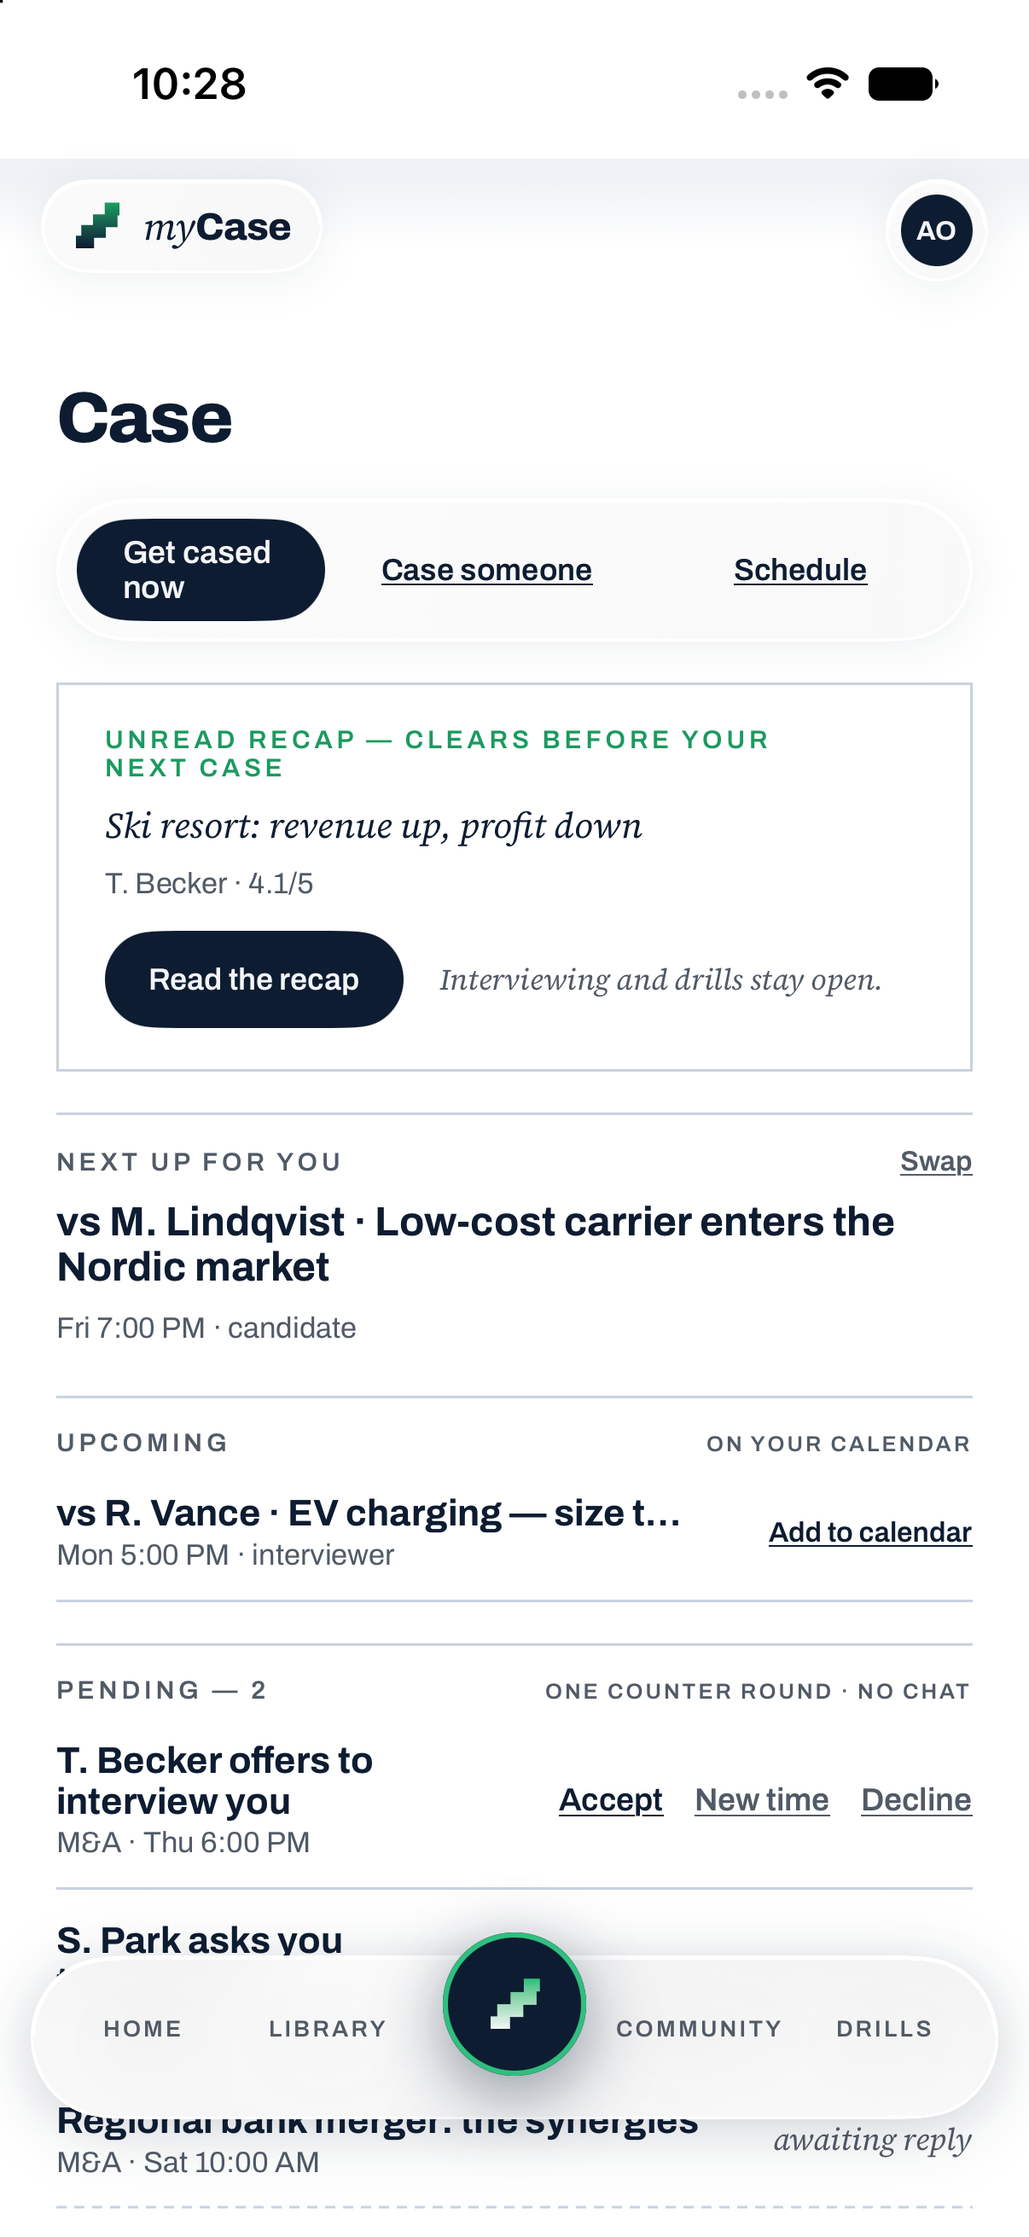
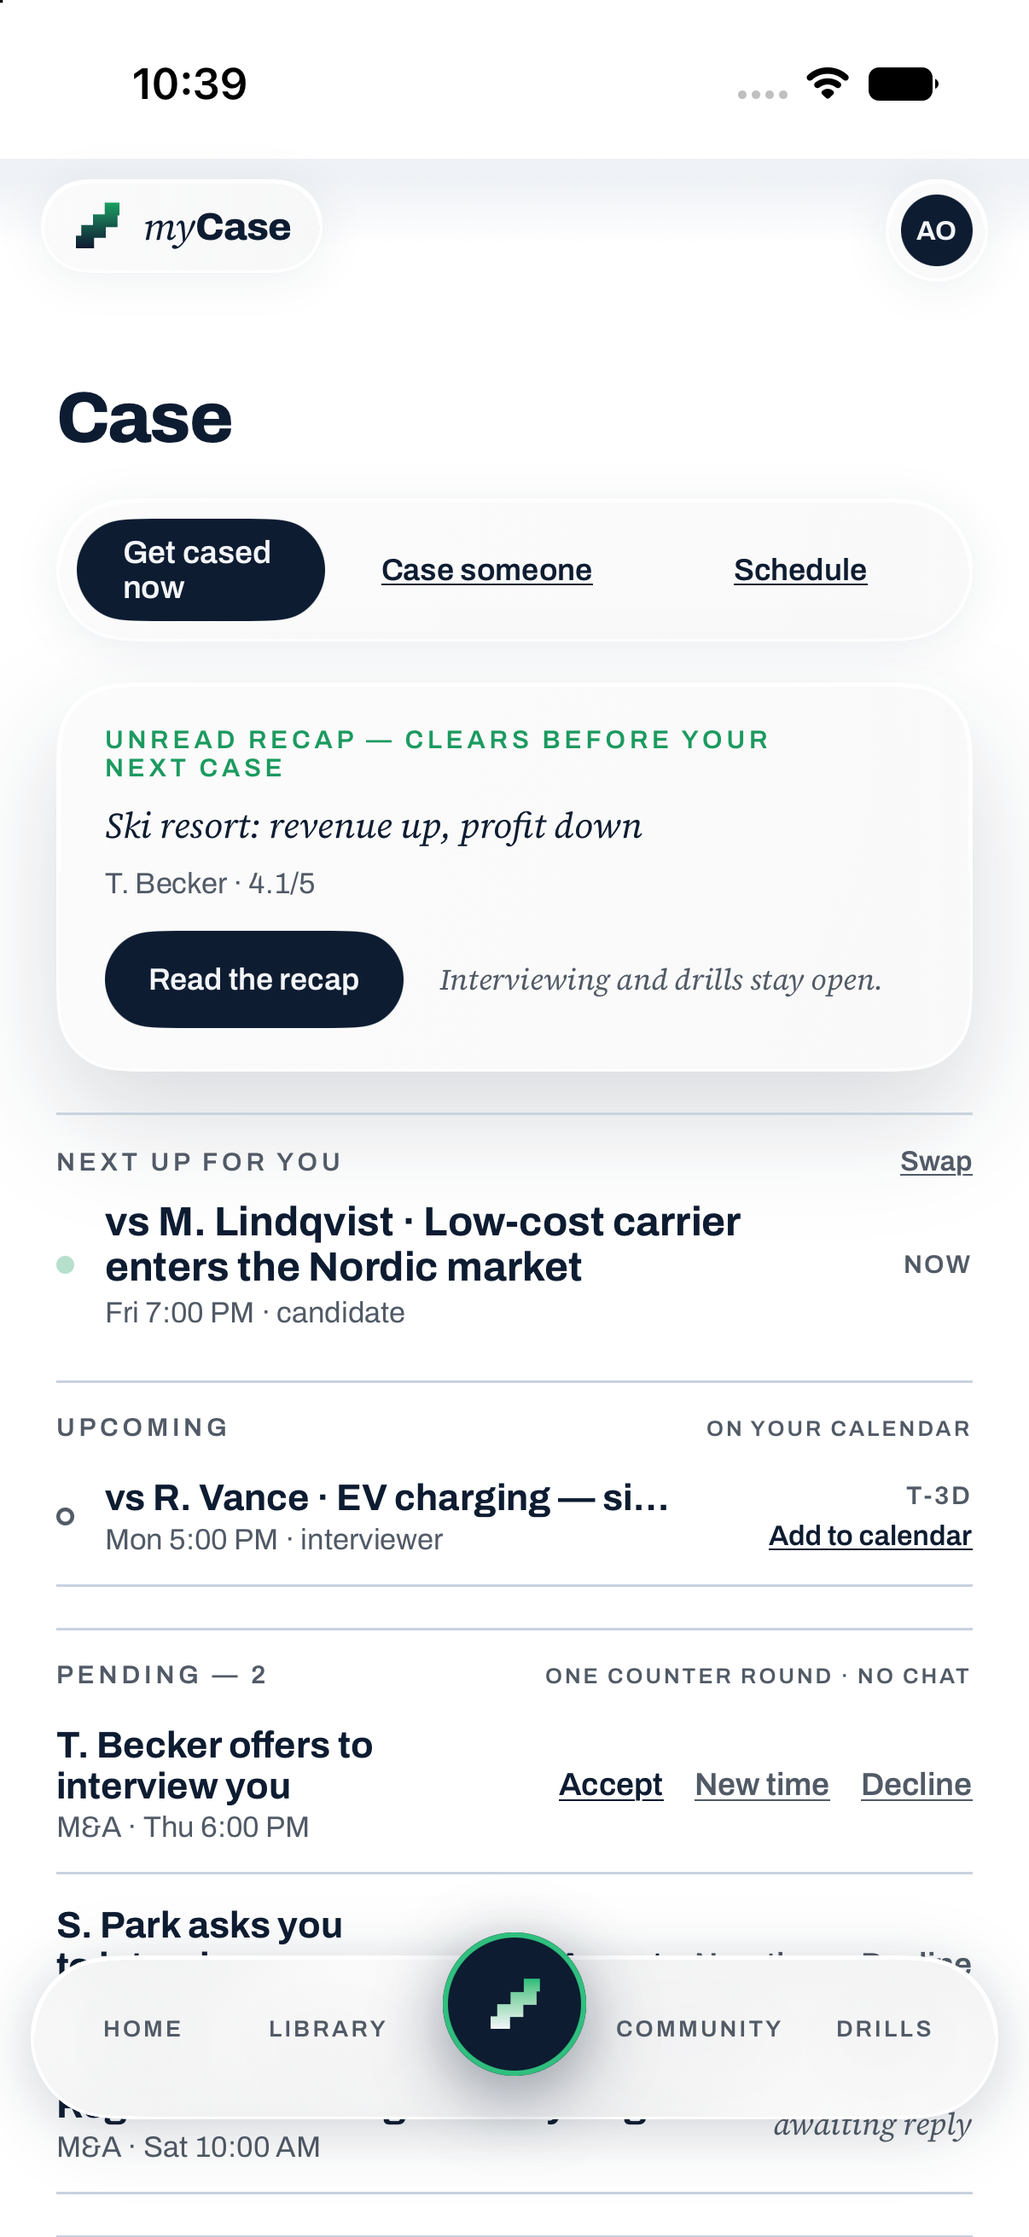
F3 T2 review fixes: dot+countdown chrome, glass recap card, hairline sent row
Address CHANGES-REQUIRED from T2 review:
- NEXT UP + UPCOMING rows restore canvas 3b's leading status dot (green
  blink on the imminent session, hollow ring otherwise) and right-aligned
  tabular countdown ("T-6H"/"T-3D", CaseTabCopy.countdown), while keeping
  the add-to-calendar affordance.
- Recap-gate card is now glass (.glassPanel, 26pt corners) — canvas 3b's
  card is glass; overrides the earlier flat-card guess. Verb bar is glass
  chrome, not a hero, so the filled-button budget stays at 2.
- Sent-awaiting rows use the standard hairline, not an invented dashed rule.
- tabularNumbers() on pending/sent-awaiting meta and the recap grade line.
- Swap toast copy lowercased to "invite sent".

Suite 527/0 (522+5 new countdown tests). Re-screenshot at
.superpowers/sdd/f3/shots/t2-phone-spine.png.

diff --git a/ios/CaseRoom/Views/CaseTabView.swift b/ios/CaseRoom/Views/CaseTabView.swift
@@ -1,14 +1,17 @@
 /*
  * Purpose: Case tab — canvas 3b "calm spine" (CANON, phone). A slim glass verb
- *          bar (the screen's ONE glass hero + ONE filled button: "Get cased
- *          now"), the recap-gate card (the only card, sanctioned 2nd filled
- *          exception — NOT a second glass hero), then flat hairline sections:
- *          NEXT UP (+ Swap), UPCOMING (rise-in, add-to-calendar), PENDING
- *          (Accept/New time/Decline + dashed "awaiting reply" sent rows), and
- *          HISTORY. Verb-bar taps present three MARK-bounded placeholder
- *          sheets (T3/T4/T5 fill the bodies); a recap gate (either tapped or
- *          a 409-surfaced `gatedRecapSessionID`) pushes the interim
- *          RecapGateStub (F5 replaces at merge) onto casePath.
+ *          bar (glass CHROME, ONE filled button: "Get cased now") plus the
+ *          recap-gate card — the screen's ONE glass HERO (canvas 3b line 1544
+ *          is glass; filled "Read the recap" is the 2nd sanctioned filled
+ *          exception) — then flat hairline sections: NEXT UP (leading green
+ *          blink dot on the imminent session + Swap + tabular countdown),
+ *          UPCOMING (hollow-ring dot, rise-in, tabular countdown,
+ *          add-to-calendar), PENDING (Accept/New time/Decline + hairline
+ *          "awaiting reply" sent rows), and HISTORY. Verb-bar taps present
+ *          three MARK-bounded placeholder sheets (T3/T4/T5 fill the bodies);
+ *          a recap gate (either tapped or a 409-surfaced
+ *          `gatedRecapSessionID`) pushes the interim RecapGateStub (F5
+ *          replaces at merge) onto casePath.
  * Inputs: CaseTabViewModel (default live). DEBUG `-CaseFixtures` (wired in
  *         RootShell's caseTabRoot, mirrors `-GroupPageFixtures`) injects
  *         CaseFixtures.makeViewModel() — no dev server needed.
@@ -72,6 +75,20 @@ struct CaseTabSectionVisibility: Equatable {
 enum CaseTabCopy {
     static func pendingOfferLabel(fromName: String, fromRole: String) -> String {
         fromRole == "candidate" ? "\(fromName) asks you to interview" : "\(fromName) offers to interview you"
+    }
+
+    /// Canvas 3b's right-aligned relative countdown ("T-6H" style, tabular).
+    /// nil when there's no scheduled time to count down to.
+    static func countdown(to date: Date?, now: Date) -> String? {
+        guard let date else { return nil }
+        let seconds = date.timeIntervalSince(now)
+        if seconds <= 0 { return "NOW" }
+        let hours = seconds / 3600
+        if hours < 24 {
+            return "T-\(max(1, Int(hours.rounded(.up))))H"
+        }
+        let days = Int((hours / 24).rounded(.up))
+        return "T-\(days)D"
     }
 }
 
@@ -233,9 +250,10 @@ struct CaseTabView: View {
         .glassChip()
     }
 
-    // MARK: - 2. Recap-gate card — the ONLY card on the screen (canvas 3b
-    // 1544-1552). Flat filled card (sanctioned 2nd filled exception, NOT a
-    // glass hero — plan-review M7): square corners, solid surface fill.
+    // MARK: - 2. Recap-gate card — the ONE glass hero on the screen (canvas 3b
+    // line 1544 is glass: var(--gbg) + blur, 26px rounded corners — the verb
+    // bar above is glass CHROME, not a hero; this card is the hero). Filled
+    // "Read the recap" is the 2nd sanctioned filled-button exception.
     // RecapItem carries no serif "quote" field (interviewerName/grade/
     // caseTitle only), so the lede binds the case title rather than
     // fabricating persona-only feedback text — documented deviation.
@@ -252,7 +270,7 @@ struct CaseTabView: View {
                     Text(recap.caseTitle)
                         .dsText(.serif(14, italic: true)).foregroundStyle(palette.ink)
                     Text("\(recap.interviewerName) · \(Self.gradeText(recap.grade))")
-                        .dsText(.meta).foregroundStyle(palette.muted)
+                        .dsText(.meta).tabularNumbers().foregroundStyle(palette.muted)
                         .padding(.bottom, 5)
                     HStack(spacing: 14) {
                         Text("Read the recap")
@@ -267,8 +285,7 @@ struct CaseTabView: View {
                 }
                 .padding(.horizontal, 19).padding(.vertical, 17)
                 .frame(maxWidth: .infinity, alignment: .leading)
-                .background(palette.surface)
-                .overlay(Rectangle().strokeBorder(palette.hairline, lineWidth: 1))
+                .glassPanel(cornerRadius: 26)
                 .contentShape(Rectangle())
             }
             .buttonStyle(.plain)
@@ -279,7 +296,11 @@ struct CaseTabView: View {
     // vm.nextUp (the soonest scheduled session) rather than a separate
     // recommendation entity — CaseTabViewModel has no recommendation field.
     // Swap is a cosmetic stub (the real swap-roles endpoint is F5's session
-    // takeover) — wires the UI + a toast, per the T2 brief.
+    // takeover) — wires the UI + a toast, per the T2 brief. The row restores
+    // canvas 3b's leading status dot + right-aligned tabular countdown
+    // (canvas ~1573-1579); nextUp is the single most-imminent session, so it
+    // gets the green blink dot (keeps content greens ≤3 — the other is UPCOMING's
+    // hollow ring, unlit).
 
     @ViewBuilder
     private var nextUpSection: some View {
@@ -288,24 +309,37 @@ struct CaseTabView: View {
                 HStack(alignment: .firstTextBaseline) {
                     Text("NEXT UP FOR YOU").dsText(.kicker).foregroundStyle(palette.muted)
                     Spacer()
-                    Button { toastMessage = "Invite sent" } label: {
+                    Button { toastMessage = "invite sent" } label: {
                         Text("Swap").font(.archivo(11, weight: 600)).underline().foregroundStyle(palette.muted)
                     }
                     .buttonStyle(.plain)
                 }
-                Text("vs \(session.otherUser) · \(session.caseTitle)")
-                    .font(.archivo(16, weight: 700))
-                    .foregroundStyle(palette.ink)
-                Text(Self.sessionMeta(session))
-                    .dsText(.meta).tabularNumbers().foregroundStyle(palette.muted)
+                HStack(alignment: .center, spacing: 12) {
+                    BlinkDot(diameter: 7)
+                    VStack(alignment: .leading, spacing: 3) {
+                        Text("vs \(session.otherUser) · \(session.caseTitle)")
+                            .font(.archivo(16, weight: 700))
+                            .foregroundStyle(palette.ink)
+                        Text(Self.sessionMeta(session))
+                            .dsText(.meta).tabularNumbers().foregroundStyle(palette.muted)
+                    }
+                    Spacer(minLength: 8)
+                    if let countdown = CaseTabCopy.countdown(to: session.scheduledAt, now: Date()) {
+                        Text(countdown)
+                            .font(.archivo(10, weight: 600)).tracking(0.08 * 10).tabularNumbers()
+                            .foregroundStyle(palette.muted)
+                    }
+                }
             }
             .padding(.top, 13).padding(.bottom, 4)
             .overlay(Rectangle().fill(palette.hairline).frame(height: 1), alignment: .top)
         }
     }
 
-    // MARK: - 4. UPCOMING — flat rows (canvas 3b 1568-1599), rise-in staggered
-    // (Motion.rise), each with an add-to-calendar underline affordance.
+    // MARK: - 4. UPCOMING — flat rows (canvas 3b 1568-1599): leading hollow-
+    // ring status dot + tabular countdown (canon chrome) PLUS an
+    // add-to-calendar underline affordance (F3 brief's real EventKit
+    // capability) — rise-in staggered (Motion.rise).
 
     @ViewBuilder
     private var upcomingSection: some View {
@@ -330,26 +364,40 @@ struct CaseTabView: View {
         }
     }
 
+    /// Hollow ring (canvas 3b: `border:1.5px solid #515A66`) — every UPCOMING
+    /// row is an accepted-but-not-imminent session; only nextUp lights green.
+    private var hollowRingDot: some View {
+        Circle().strokeBorder(palette.muted, lineWidth: 1.5).frame(width: 7, height: 7)
+    }
+
     private func upcomingRow(_ session: SessionSummary) -> some View {
         HStack(alignment: .center, spacing: 12) {
+            hollowRingDot
             VStack(alignment: .leading, spacing: 2) {
                 Text("vs \(session.otherUser) · \(session.caseTitle)")
                     .dsText(.rowTitleStrong).foregroundStyle(palette.ink).lineLimit(1)
                 Text(Self.sessionMeta(session)).dsText(.meta).tabularNumbers().foregroundStyle(palette.muted)
             }
             Spacer(minLength: 8)
-            Button { Task { await viewModel.addToCalendar(session) } } label: {
-                Text("Add to calendar")
-                    .font(.archivo(11, weight: 600)).underline().foregroundStyle(palette.ink)
+            VStack(alignment: .trailing, spacing: 4) {
+                if let countdown = CaseTabCopy.countdown(to: session.scheduledAt, now: Date()) {
+                    Text(countdown)
+                        .font(.archivo(10, weight: 600)).tracking(0.08 * 10).tabularNumbers()
+                        .foregroundStyle(palette.muted)
+                }
+                Button { Task { await viewModel.addToCalendar(session) } } label: {
+                    Text("Add to calendar")
+                        .font(.archivo(11, weight: 600)).underline().foregroundStyle(palette.ink)
+                }
+                .buttonStyle(.plain)
             }
-            .buttonStyle(.plain)
         }
         .padding(.vertical, 12)
         .overlay(Rectangle().fill(palette.hairline).frame(height: 1), alignment: .bottom)
     }
 
     // MARK: - 5. PENDING — received rows w/ Accept/New time/Decline (canvas
-    // 3b 1601-1631); sent-awaiting rows below, dashed hairline, no actions.
+    // 3b 1601-1631); sent-awaiting rows below, standard hairline, no actions.
 
     @ViewBuilder
     private var pendingSection: some View {
@@ -380,7 +428,7 @@ struct CaseTabView: View {
             VStack(alignment: .leading, spacing: 2) {
                 Text(CaseTabCopy.pendingOfferLabel(fromName: proposal.fromName, fromRole: proposal.fromRole))
                     .dsText(.rowTitleStrong).foregroundStyle(palette.ink)
-                Text(Self.proposalMeta(proposal)).dsText(.meta).foregroundStyle(palette.muted)
+                Text(Self.proposalMeta(proposal)).dsText(.meta).tabularNumbers().foregroundStyle(palette.muted)
             }
             Spacer(minLength: 8)
             HStack(spacing: 12) {
@@ -402,21 +450,23 @@ struct CaseTabView: View {
         .overlay(Rectangle().fill(palette.hairline).frame(height: 1), alignment: .bottom)
     }
 
-    /// Sent-and-awaiting rows: dashed-era hairline, verbatim "awaiting reply",
-    /// no actions. Proposal carries no recipient-name field (only fromName —
-    /// the sender), so the row leads with the case title rather than a
+    /// Sent-and-awaiting rows: the same standard hairline as every other row
+    /// (canvas 3b's sent row uses `border-bottom:1px solid #C9D2DF`, not a
+    /// dashed rule — MINOR-3 review fix), verbatim "awaiting reply", no
+    /// actions. Proposal carries no recipient-name field (only fromName — the
+    /// sender), so the row leads with the case title rather than a
     /// fabricated "You → X" — documented deviation from canvas's `sentWho3`.
     private func sentAwaitingRow(_ proposal: Proposal) -> some View {
         HStack(alignment: .center, spacing: 10) {
             VStack(alignment: .leading, spacing: 2) {
                 Text(proposal.caseTitle ?? "Practice case").dsText(.rowTitleStrong).foregroundStyle(palette.ink)
-                Text(Self.proposalMeta(proposal)).dsText(.meta).foregroundStyle(palette.muted)
+                Text(Self.proposalMeta(proposal)).dsText(.meta).tabularNumbers().foregroundStyle(palette.muted)
             }
             Spacer(minLength: 8)
             Text("awaiting reply").dsText(.serif(12, italic: true)).foregroundStyle(palette.muted)
         }
         .padding(.vertical, 12)
-        .overlay(DashedLine(color: palette.hairline), alignment: .bottom)
+        .overlay(Rectangle().fill(palette.hairline).frame(height: 1), alignment: .bottom)
     }
 
     private func acceptProposal(_ proposal: Proposal) {
@@ -508,23 +558,6 @@ struct CaseTabView: View {
 }
 
 // MARK: - Subviews
-
-/// A 1px dashed hairline — the "sent" row's dashed-era divider (canvas §1
-/// glass recipes don't cover this; it is the one dashed rule in the system,
-/// marking a row as pending-outbound rather than settled).
-private struct DashedLine: View {
-    var color: Color
-    var body: some View {
-        GeometryReader { geo in
-            Path { path in
-                path.move(to: CGPoint(x: 0, y: 0))
-                path.addLine(to: CGPoint(x: geo.size.width, y: 0))
-            }
-            .stroke(color, style: StrokeStyle(lineWidth: 1, dash: [4, 3]))
-        }
-        .frame(height: 1)
-    }
-}
 
 /// The canvas content rise: 16px up + fade, staggered by `delay` (Design
 /// Decisions §1: "rise 420ms cubic-bezier(0.22,1,0.36,1) 16px up, staggered

diff --git a/ios/CaseRoomTests/CaseTabViewTests.swift b/ios/CaseRoomTests/CaseTabViewTests.swift
@@ -80,6 +80,34 @@ final class CaseTabViewTests: XCTestCase {
         XCTAssertFalse(visibility.showsUpcoming)
     }
 
+    // MARK: - CaseTabCopy.countdown (canon "T-6H"/"T-3D" style, tabular)
+
+    func testCountdownNilWhenNoDate() {
+        XCTAssertNil(CaseTabCopy.countdown(to: nil, now: Date()))
+    }
+
+    func testCountdownNowWhenAtOrPastDeadline() {
+        let now = Date()
+        XCTAssertEqual(CaseTabCopy.countdown(to: now, now: now), "NOW")
+        XCTAssertEqual(CaseTabCopy.countdown(to: now.addingTimeInterval(-60), now: now), "NOW")
+    }
+
+    func testCountdownHoursUnderADay() {
+        let now = Date()
+        XCTAssertEqual(CaseTabCopy.countdown(to: now.addingTimeInterval(3600 * 6), now: now), "T-6H")
+    }
+
+    func testCountdownRoundsUpPartialHour() {
+        let now = Date()
+        // 5h10m out rounds up to T-6H, not truncates to T-5H.
+        XCTAssertEqual(CaseTabCopy.countdown(to: now.addingTimeInterval(3600 * 5 + 600), now: now), "T-6H")
+    }
+
+    func testCountdownDaysAtOrOverADay() {
+        let now = Date()
+        XCTAssertEqual(CaseTabCopy.countdown(to: now.addingTimeInterval(3600 * 24 * 3), now: now), "T-3D")
+    }
+
     // MARK: - CaseTabCopy.pendingOfferLabel
 
     func testPendingOfferLabelInterviewerOffersToInterviewYou() {

diff --git a/.superpowers/sdd/f3/progress.md b/.superpowers/sdd/f3/progress.md
@@ -27,4 +27,5 @@ Interpreter: /Users/thomaskgould/dev/Case-Repo-App-Experience/.venv/bin/python
 ## Tasks
 - **T1 DONE** (commits 04de029, c81b115). Data layer: Proposal (optional case fields + direction/state/claimToken/counterTimes/counterBy/counteredAt + explicit defaulted init), AcceptedSession urls optional, PairToken.shortCode, RecapItem, ClaimResult, CaseGateError.blockedByRecap(Int) wired into accept/claim/pairClaim only (nested {"detail":{"blocked_by_recap":id}} @ 409). CaseTabViewModel + CaseTabService + CaseFixtures. APIClient.recaps()/claimProposal/counterProposal. Suite **509/0** (500+9). Opus review APPROVE-WITH-NITS (0 Crit/Imp; 4 minors: VM not @MainActor = mirrors SessionsViewModel precedent; 2 dead gate-catch arms in decline/counter = spec-directed; minor test gaps; claimProposal token path-interp low-risk). xcodeproj stays gitignored/regenerable (repo convention — only Package.resolved tracked).
 - **T2 DONE** (phone spine, canvas 3b `*3`). New `Views/CaseTabView.swift` (verb bar = the one glass hero + one filled button "Get cased now" + underline "Case someone"/"Schedule"; recap-gate card = flat filled square-corner card, sanctioned 2nd filled exception, NOT glass — plan-review M7; NEXT UP FOR YOU + Swap stub-toast; UPCOMING rows rise-in staggered + add-to-calendar; PENDING Accept/New time/Decline + dashed sent "awaiting reply" rows; HISTORY greyed tabular rows; empty-state serif line) + `CaseSheet` enum (getCased/caseSomeone/schedule, verbatim titles) + placeholder `CaseSheetPlaceholder` shells (`// MARK: T3/T4/T5 fills this`) + `NewTimeSheet` (New-time DatePicker→counter). New `Views/RecapGateStub.swift` (`// MARK: F3 INTERIM`, F5 replaces at merge). RootShell: bounded `// MARK: F3` block replaces `case .caseTab: SessionsView()` with `NavigationStack(path:$router.casePath){ caseTabRoot… }` + `.recap` navigationDestination + `caseTabRoot` (mirrors `groupPageDestination`'s `-CaseFixtures` branch) + added `-CaseFixtures` to the two DEBUG skip-lists (bootstrap race, push-auth alert). CaseRoomApp: `-CaseFixtures` hatch (fake auth + selects `.caseTab`, mirrors `-CommunityFixtures`) + docblock updated. Deliberate deviations (documented in code comments): RecapItem has no serif-quote field, so the gate card's lede binds `caseTitle` not a fabricated quote; Proposal has no recipient-name field, so sent-awaiting rows lead with case title, not "You → X"; NEXT UP binds `vm.nextUp` (no separate recommendation entity in the VM) with the canvas's NEXT UP+Swap chrome; row meta (time/date) is a plain formatter, not canvas's literal "Tonight 19:00 · lobby opens 18:50 · T-6H" relative-time microcopy (not flagged verbatim in the brief); RootShell's `detailOpen` (top-pills/tab-bar hide gate) was NOT extended to `casePath` — left exactly as instructed, so the tab bar/top pills stay visible over the pushed RecapGateStub (F5 should reconsider when it replaces the stub). Suite **522/0** (509+13, `CaseTabViewTests.swift`: `CaseTabSectionVisibility`, `CaseTabCopy.pendingOfferLabel`, `CaseTabGateSteering`, `CaseSheet`). Foreground build green (iPhone 17 942222D4). Screenshot `.superpowers/sdd/f3/shots/t2-phone-spine.png` (`-CaseFixtures -startTab caseTab`) — verb bar, recap-gate card, NEXT UP, UPCOMING, PENDING all present and visually match canvas 3b.
+- **T2 review fixes applied** (CHANGES-REQUIRED → addressed, same `CaseTabView.swift`). IMPORTANT-1: restored canvas 3b's leading status dot (green `BlinkDot` on nextUp only, hollow ring on UPCOMING rows) + right-aligned tabular countdown (`CaseTabCopy.countdown(to:now:)`, "T-6H"/"T-3D", 5 new unit tests) on both the NEXT UP row and UPCOMING rows; kept "Add to calendar" (mandated capability, not invented chrome). IMPORTANT-2: recap-gate card is now the screen's ONE glass hero (`.glassPanel(cornerRadius: 26)`, overriding the earlier flat/M7 guess — canvas 3b line 1544 is glass; verb bar re-scoped as glass CHROME, not a hero — filled-button budget still exactly 2). MINOR-3: sent-awaiting row divider is the standard 1px hairline (removed the invented `DashedLine` shape). MINOR-4: `.tabularNumbers()` added to pendingRow/sentAwaitingRow meta + the recap grade line. MINOR-7: Swap toast copy lowercased to "invite sent". Suite **527/0** (522+5 countdown tests). Rebuilt + re-screenshotted `.superpowers/sdd/f3/shots/t2-phone-spine.png` (`-CaseFixtures -startTab caseTab`) — glass recap card, dot+countdown on NEXT UP/UPCOMING, solid hairline sent row all confirmed visually.
 - T3/T4/T5 (sheets), T6 (tablet), close-out — pending.
